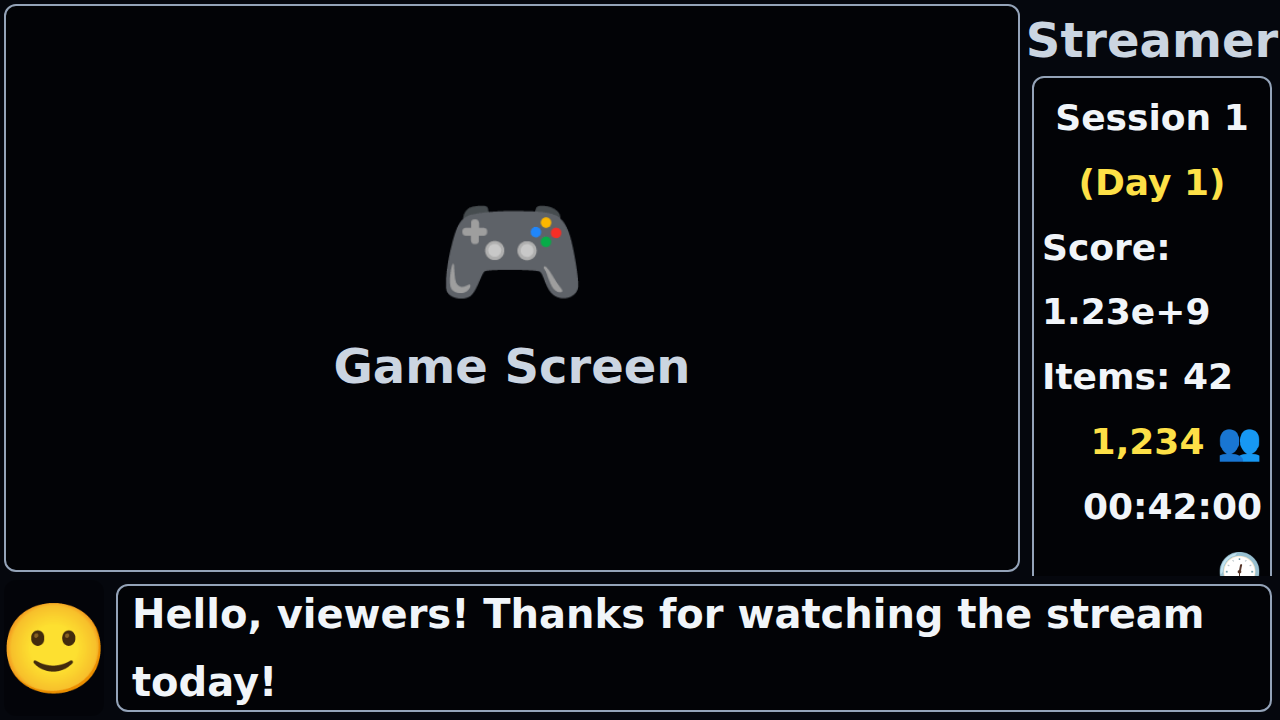
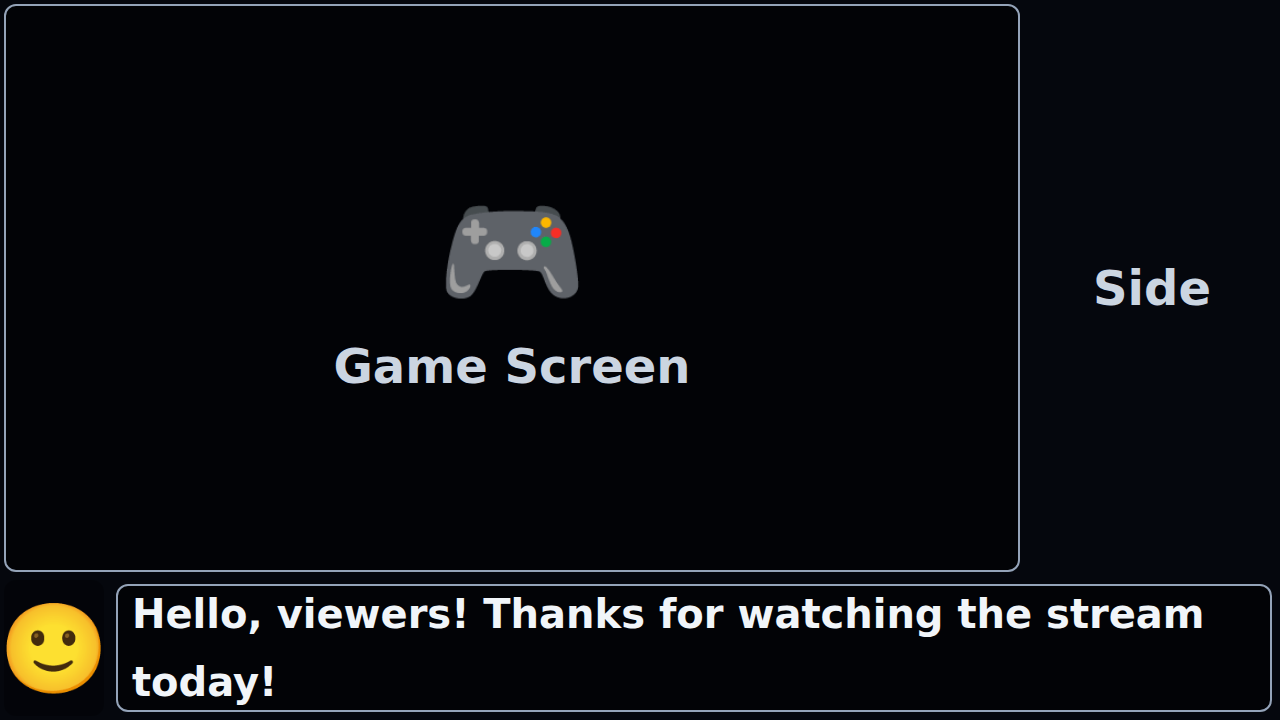
Simplify sidebar and rewrite example/README.md to focus on library usage

diff --git a/example/src/App.tsx b/example/src/App.tsx
@@ -21,27 +21,11 @@ export function App() {
         </Box>
       </Container>
 
-      {/* Side panel — stream stats */}
+      {/* Side panel — sidebar info */}
       <Container>
-        <div className="h-full flex flex-col justify-between items-center gap-2">
-          <div className="flex-none text-[3rem] text-slate-300 text-center pt-2">
-            Streamer
-          </div>
-          <div className="flex-auto w-full">
-            <div className="h-full flex flex-col justify-between p-2 bg-black/50 border-2 border-slate-400 rounded-xl text-[2.25rem]/[4rem]">
-              <div className="text-center">
-                <div>Session 1</div>
-                <div className="text-yellow-300">(Day 1)</div>
-              </div>
-              <div>
-                <div>Score: 1.23e+9</div>
-                <div>Items: 42</div>
-              </div>
-              <div className="text-right">
-                <div className="text-yellow-300">1,234 👥</div>
-                <div>00:42:00 🕧</div>
-              </div>
-            </div>
+        <div className="h-full flex flex-col items-center justify-center">
+          <div className="text-[3rem] text-slate-300 text-center">
+            Side
           </div>
         </div>
       </Container>

diff --git a/example/README.md b/example/README.md
@@ -5,13 +5,38 @@ This example demonstrates the three-panel stream overlay layout provided by
 
 ## Layout
 
+Use `<Layout count={10} span={8}>` with three `<Container>` children to produce a
+10×10 grid where the main area spans 8 columns and 8 rows, the side panel takes the
+remaining 2 columns, and the bottom strip spans the full width at the bottom 2 rows:
+
 ![Layout Example](layout-example.png)
 
-| Panel | Grid area | Text shown in the image |
-|-------|-----------|-------------------------|
-| Main | `col-span-8 / row-span-8` | 🎮 **Game Screen** |
-| Side | `col-span-2 / row-span-8` | **Streamer** · Session 1 · (Day 1) · Score: 1.23e+9 · Items: 42 · 1,234 👥 · 00:42:00 🕧 |
-| Bottom | `col-span-10 / row-span-2` | 🙂 *Hello, viewers! Thanks for watching the stream today!* |
+```tsx
+import { Box, Container, Layout } from "automated-gameplay-transmitter";
+
+<Layout count={10} span={8} className="...">
+  {/* Main panel — col-span-8 / row-span-8 */}
+  <Container>
+    <Box>{/* game screen */}</Box>
+  </Container>
+
+  {/* Side panel — col-span-2 / row-span-8 */}
+  <Container>
+    {/* stream info */}
+  </Container>
+
+  {/* Bottom panel — col-span-10 / row-span-2 */}
+  <Container>
+    {/* speech / captions */}
+  </Container>
+</Layout>
+```
+
+| Panel | Grid area | Component |
+|-------|-----------|-----------|
+| Main | `col-span-8 / row-span-8` | `<Container>` + `<Box>` |
+| Side | `col-span-2 / row-span-8` | `<Container>` |
+| Bottom | `col-span-10 / row-span-2` | `<Container>` |
 
 ## Requirements
 
